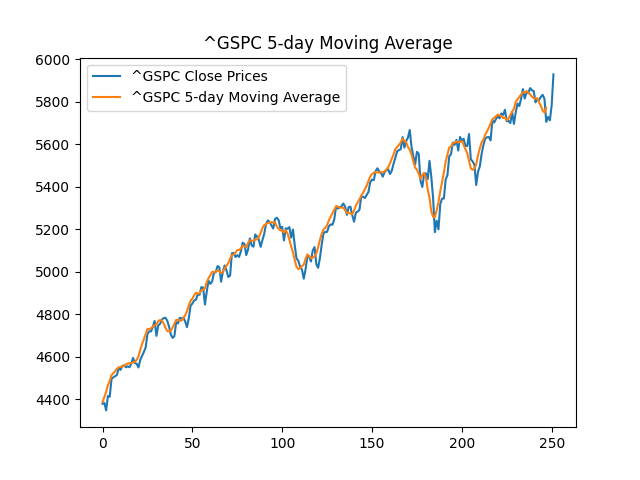
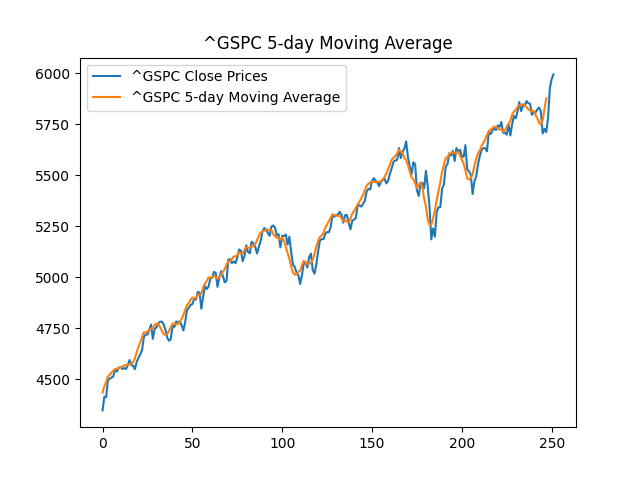
Python側のテスト終了

diff --git a/data-analysis-python/src/calculate_indicator/simple_moving_average/test_simple_moving_average_grpc.py b/data-analysis-python/src/calculate_indicator/simple_moving_average/test_simple_moving_average_grpc.py
@@ -8,73 +8,77 @@ import yfinance as yf
 import matplotlib.pyplot as plt
 import os
 
-
 # 株価データを取得する関数
 def fetch_stock_data(ticker):
-    stock = yf.Ticker(
-        ticker
-    )  # Yahoo Finance から指定されたティッカーシンボルのデータを取得
-    stock_data = stock.history(period="1y")  # 過去1年分の株価データを取得
-    return stock_data["Close"].tolist()  # 終値のリストを返す
+    stock = yf.Ticker(ticker)
+    stock_data = stock.history(period="1y")
+    # StockDataメッセージに適合するデータ形式に変換
+    return {
+        str(index.date()): simple_moving_average_pb2.StockData(
+            open=row["Open"],
+            close=row["Close"],
+            high=row["High"],
+            low=row["Low"],
+            volume=row["Volume"]
+        )
+        for index, row in stock_data.iterrows()
+    }
 
+class SimpleMovingAverageServiceForTest(SimpleMovingAverageService):
+    def CalculateSimpleMovingAverage(self, request, context):
+        return super().CalculateSimpleMovingAverage(request, context)
 
 class TestCalculateIndicatorGRPC(unittest.TestCase):
     @classmethod
     def setUpClass(cls):
-        # 最大10スレッドのスレッドプールを持つ gRPC サーバーを作成
         cls.server = grpc.server(futures.ThreadPoolExecutor(max_workers=10))
-        # サーバーに MovingAverageService を追加
         simple_moving_average_pb2_grpc.add_SimpleMovingAverageServiceServicer_to_server(
-            SimpleMovingAverageService(), cls.server
+            SimpleMovingAverageServiceForTest(), cls.server
         )
-        # サーバーにポート 50053 を追加
         cls.server.add_insecure_port("[::]:50053")
-        # サーバーを起動
         cls.server.start()
 
     @classmethod
     def tearDownClass(cls):
-        # サーバーを停止
         cls.server.stop(None)
 
     def test_calculate_simple_moving_average(self):
-        stock_data = fetch_stock_data("^GSPC")  # 株価データを取得
-        with grpc.insecure_channel(
-            "localhost:50053"
-        ) as channel:  # gRPC チャンネルを作成
-            stub = simple_moving_average_pb2_grpc.SimpleMovingAverageServiceStub(
-                channel
-            )  # スタブを作成
-            # gRPC リクエストを送信し、移動平均を計算
+        stock_data = fetch_stock_data("^GSPC")
+        with grpc.insecure_channel("localhost:50053") as channel:
+            stub = simple_moving_average_pb2_grpc.SimpleMovingAverageServiceStub(channel)
+            # gRPCリクエストの送信
             response = stub.CalculateSimpleMovingAverage(
                 simple_moving_average_pb2.SimpleMovingAverageRequest(
-                    stock_data=stock_data, window_size=5
+                    stock_data=stock_data,
+                    window_size=5
                 )
             )
-            simple_moving_average = response.values  # 移動平均の結果を取得
+            simple_moving_average = response.moving_average
 
             # プロットして画像を保存
             plt.figure()
-            plt.plot(stock_data, label="^GSPC Close Prices")
-            plt.plot(simple_moving_average, label="^GSPC 5-day Moving Average")
+            close_prices = [stock_data[date].close for date in stock_data]
+            moving_averages = [simple_moving_average[date] for date in sorted(simple_moving_average.keys())]
+
+            plt.plot(close_prices, label="^GSPC Close Prices")
+            plt.plot(moving_averages, label="^GSPC 5-day Moving Average")
             plt.title("^GSPC 5-day Moving Average")
             plt.legend()
 
             output_dir = "src/calculate_indicator/simple_moving_average/test_output"
-            if not os.path.exists(output_dir):  # 出力ディレクトリが存在しない場合は作成
+            if not os.path.exists(output_dir):
                 os.makedirs(output_dir)
-
-            plt.savefig(
-                f"{output_dir}/grpc_simple_moving_average_chart.png"
-            )  # チャートを保存
+            plt.savefig(f"{output_dir}/grpc_simple_moving_average_chart.png")
             plt.close()
 
-            self.assertTrue(simple_moving_average)  # 移動平均データが存在することを確認
+            self.assertTrue(moving_averages)
             print(f"Chart saved as {output_dir}/grpc_simple_moving_average_chart.png")
-
 
 if __name__ == "__main__":
     unittest.main()
 
+# 本ファイル単体テスト
+# python -m unittest discover -s src/calculate_indicator/simple_moving_average -p 'test_simple_moving_average_grpc.py'
 
-# python -m unittest discover -s src/calculate_indicator/simple_moving_average  -p 'test*.py'
+# 一括テスト
+# python -m unittest discover -s src/calculate_indicator/simple_moving_average -p 'test*.py'

diff --git a/data-analysis-python/src/calculate_indicator/simple_moving_average/test_simple_moving_average_service.py b/data-analysis-python/src/calculate_indicator/simple_moving_average/test_simple_moving_average_service.py
@@ -3,16 +3,23 @@ from simple_moving_average_service import calculate_simple_moving_average
 import yfinance as yf
 import matplotlib.pyplot as plt
 import os
-
+from google.protobuf.timestamp_pb2 import Timestamp
+import simple_moving_average_pb2
 
 # 株価データを取得する関数
 def fetch_stock_data(ticker):
-    stock = yf.Ticker(
-        ticker
-    )  # Yahoo Finance から指定されたティッカーシンボルのデータを取得
+    stock = yf.Ticker(ticker)  # Yahoo Finance から指定されたティッカーシンボルのデータを取得
     stock_data = stock.history(period="1y")  # 過去1年分の株価データを取得
-    return stock_data["Close"].tolist()  # 終値のリストを返す
+    return stock_data.to_dict('index')  # 株価データを辞書形式で返す
 
+# 株価データをprotobufメッセージに変換する関数
+def convert_to_protobuf(stock_data):
+    stock_data_pb = {}
+    for date, data in stock_data.items():
+        stock_data_pb[date.strftime('%Y-%m-%d')] = simple_moving_average_pb2.StockData(
+            open=data["Open"], close=data["Close"], high=data["High"], low=data["Low"], volume=data["Volume"]
+        )
+    return stock_data_pb
 
 # 単体テスト用クラス
 class TestCalculateIndicatorService(unittest.TestCase):
@@ -20,15 +27,21 @@ class TestCalculateIndicatorService(unittest.TestCase):
         ticker = "^GSPC"  # テストするティッカーシンボル
         window_size = 30  # 移動平均のウィンドウサイズ
         stock_data = fetch_stock_data(ticker)  # 株価データを取得
+        stock_data_pb = convert_to_protobuf(stock_data)  # protobufメッセージに変換
+        
+        # サービス関数の呼び出し
         simple_moving_average = calculate_simple_moving_average(
-            stock_data, window_size
+            stock_data_pb, window_size
         )  # 移動平均を計算
 
         # プロットして画像を保存
         plt.figure()  # 新しい図を作成
-        plt.plot(stock_data, label=f"{ticker} Close Prices")  # 終値をプロット
+        close_prices = [data.close for date, data in stock_data_pb.items()]
+        moving_averages = [simple_moving_average[date] for date in sorted(simple_moving_average.keys())]
+
+        plt.plot(close_prices, label=f"{ticker} Close Prices")  # 終値をプロット
         plt.plot(
-            simple_moving_average,
+            moving_averages,
             label=f"{ticker} {window_size}-day Simple Moving Average",
         )  # 移動平均をプロット
         plt.title(
@@ -43,11 +56,14 @@ class TestCalculateIndicatorService(unittest.TestCase):
         )  # チャートを保存
         plt.close()
 
-        self.assertTrue(simple_moving_average)  # 移動平均データが存在することを確認
+        self.assertTrue(moving_averages)  # 移動平均データが存在することを確認
         print(f"Chart saved as {output_dir}/service_simple_moving_average_chart.png")
-
 
 if __name__ == "__main__":
     unittest.main()  # 単体テストを実行
 
-# python -m unittest discover -s src/calculate_indicator/simple_moving_average  -p 'test*.py'
+# 本ファイル単体テスト
+# python -m unittest discover -s src/calculate_indicator/simple_moving_average -p 'test_simple_moving_average_service.py'
+
+# 一括テスト
+# python -m unittest discover -s src/calculate_indicator/simple_moving_average -p 'test*.py'

diff --git a/data-analysis-python/src/calculate_indicator/simple_moving_average/simple_moving_average_grpc.py b/data-analysis-python/src/calculate_indicator/simple_moving_average/simple_moving_average_grpc.py
@@ -4,25 +4,25 @@ import simple_moving_average_pb2
 import simple_moving_average_pb2_grpc
 from simple_moving_average_service import calculate_simple_moving_average
 
-
 class SimpleMovingAverageService(
     simple_moving_average_pb2_grpc.SimpleMovingAverageServiceServicer
 ):
     def CalculateSimpleMovingAverage(self, request, context):
-        # リクエストから株価データを取り出し、float 型に変換
-        stock_data = [float(price) for price in request.stock_data]
-        # 移動平均を計算する関数を呼び出し、結果を values に格納
-        values = calculate_simple_moving_average(stock_data, request.window_size)
+        # 移動平均を計算する関数を呼び出し、結果を moving_average に格納
+        moving_average = calculate_simple_moving_average(request.stock_data, request.window_size)
+
         # 計算結果をレスポンスとして返す
+        response = simple_moving_average_pb2.SimpleMovingAverageResponse(
+            moving_average=moving_average
+        )
 
-        print("grpcサーバーが、calculate_simple_moving_averageサービスを呼び出し")
-        return simple_moving_average_pb2.SimpleMovingAverageResponse(values=values)
-
+        print("gRPCサーバーが、calculate_simple_moving_averageサービスを呼び出し")
+        return response
 
 def serve():
     # 最大10スレッドのスレッドプールを持つ gRPC サーバーを作成
     server = grpc.server(futures.ThreadPoolExecutor(max_workers=10))
-    # サーバーに MovingAverageService を追加
+    # サーバーに SimpleMovingAverageService を追加
     simple_moving_average_pb2_grpc.add_SimpleMovingAverageServiceServicer_to_server(
         SimpleMovingAverageService(), server
     )
@@ -33,7 +33,6 @@ def serve():
     print("Server started, listening on port 50053")
     # サーバー終了まで待機
     server.wait_for_termination()
-
 
 if __name__ == "__main__":
     serve()

diff --git a/data-analysis-python/src/calculate_indicator/simple_moving_average/simple_moving_average_service.py b/data-analysis-python/src/calculate_indicator/simple_moving_average/simple_moving_average_service.py
@@ -1,15 +1,22 @@
 import numpy as np
 
-
 def calculate_simple_moving_average(stock_data, window_size):
-    # 入力された株価データをNumPy配列に変換
-    stock_data = np.array(stock_data)
+    # 株価データ (close) を取り出し、日付順にソート
+    sorted_dates = sorted(stock_data.keys())
+    close_prices = [stock_data[date].close for date in sorted_dates]
+    
+    # NumPy 配列に変換
+    close_prices = np.array(close_prices)
 
-    # 移動平均を計算するために畳み込み演算を使用
-    # np.ones(window_size)/window_size は指定されたウィンドウサイズで平均化するためのカーネルを作成
+    # 移動平均を計算
     simple_moving_average = np.convolve(
-        stock_data, np.ones(window_size) / window_size, mode="valid"
+        close_prices, np.ones(window_size) / window_size, mode="valid"
     )
 
-    # 結果の配列をリスト形式に変換して返す
-    return simple_moving_average.tolist()
+    # 結果を日付順のマップに変換して返す
+    sma_map = {}
+    for i in range(len(simple_moving_average)):
+        date = sorted_dates[i + window_size - 1]  # 移動平均の結果に対応する日付
+        sma_map[date] = simple_moving_average[i]
+
+    return sma_map
